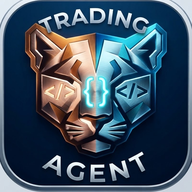
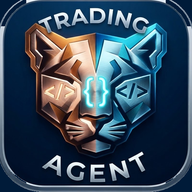
Vista previa al compartir e ícono sin marco blanco

diff --git a/seo.py b/seo.py
@@ -1,0 +1,63 @@
+"""Vista previa al compartir el link (WhatsApp, Telegram, etc.) e ícono de pantalla de inicio.
+
+Los buscadores de previsualización NO ejecutan JavaScript: leen el HTML crudo que sirve Streamlit,
+cuyo <title> es "Streamlit" y no tiene etiquetas og:. Acá se parchea ese index.html (una sola vez,
+es idempotente) para que diga lo que corresponde. Si no hay permiso de escritura, no pasa nada:
+la app sigue funcionando igual, solo que la vista previa queda genérica.
+"""
+import os
+import re
+
+PUBLIC_URL = os.getenv("PUBLIC_URL", "https://trading-agent.puma-code.com").rstrip("/")
+TITLE = "Puma-Code Trading Agent"
+DESC = ("Agente de trading algorítmico en vivo (paper trading): acciones y cripto conservadora, "
+        "con datos reales, frenos de riesgo y alarmas. Demo educativa de Puma Code.")
+START, END = "<!-- pc-seo:start -->", "<!-- pc-seo:end -->"
+
+
+def _block() -> str:
+    img = f"{PUBLIC_URL}/app/static/og-image.png"
+    return f"""{START}
+    <title>{TITLE}</title>
+    <meta name="description" content="{DESC}" />
+    <meta property="og:type" content="website" />
+    <meta property="og:site_name" content="Puma Code" />
+    <meta property="og:title" content="{TITLE}" />
+    <meta property="og:description" content="{DESC}" />
+    <meta property="og:url" content="{PUBLIC_URL}/" />
+    <meta property="og:image" content="{img}" />
+    <meta property="og:image:type" content="image/png" />
+    <meta property="og:image:width" content="1200" />
+    <meta property="og:image:height" content="630" />
+    <meta name="twitter:card" content="summary_large_image" />
+    <meta name="twitter:title" content="{TITLE}" />
+    <meta name="twitter:description" content="{DESC}" />
+    <meta name="twitter:image" content="{img}" />
+    <meta name="theme-color" content="#04060D" />
+    <link rel="apple-touch-icon" sizes="180x180" href="/app/static/apple-touch-icon.png" />
+    <link rel="manifest" href="/app/static/manifest.json" />
+    <meta name="apple-mobile-web-app-capable" content="yes" />
+    <meta name="apple-mobile-web-app-title" content="PC Trading" />
+    {END}"""
+
+
+def patch_index_html() -> str:
+    """Devuelve 'ok', 'ya estaba' o el motivo por el que no se pudo."""
+    try:
+        import streamlit
+        path = os.path.join(os.path.dirname(streamlit.__file__), "static", "index.html")
+        html = open(path, encoding="utf-8").read()
+        block = _block()
+        if START in html:
+            new = re.sub(re.escape(START) + r".*?" + re.escape(END), lambda m: block, html, flags=re.S)
+        else:
+            new, n = re.subn(r"<title>.*?</title>", lambda m: block, html, count=1, flags=re.S)
+            if n == 0:
+                return "no se encontró <title> en index.html"
+        if new == html:
+            return "ya estaba"
+        with open(path, "w", encoding="utf-8") as f:
+            f.write(new)
+        return "ok"
+    except Exception as e:  # sin permisos u otra cosa: no es crítico
+        return f"no se pudo: {e}"

diff --git a/dashboard.py b/dashboard.py
@@ -25,6 +25,7 @@ from config import Config, is_crypto, norm_symbol, timeframe_for
 from logger_db import init_db, get_state, set_state, delete_state, _dsn
 from broker_alpaca import AlpacaBroker
 from landing import render_landing
+from seo import patch_index_html
 from strategy import compute_signal
 
 APP_TITLE = "Puma-Code Trading Agent"
@@ -36,6 +37,13 @@ try:
     page_icon_img = Image.open(os.path.join(STATIC_DIR, "favicon.png"))
 except Exception:
     page_icon_img = "🤖"
+
+@st.cache_resource
+def _seo_once():
+    return patch_index_html()
+
+
+_seo_once()  # vista previa al compartir el link (ver seo.py)
 
 st.set_page_config(page_title=APP_TITLE, layout="wide", page_icon=page_icon_img)
 
